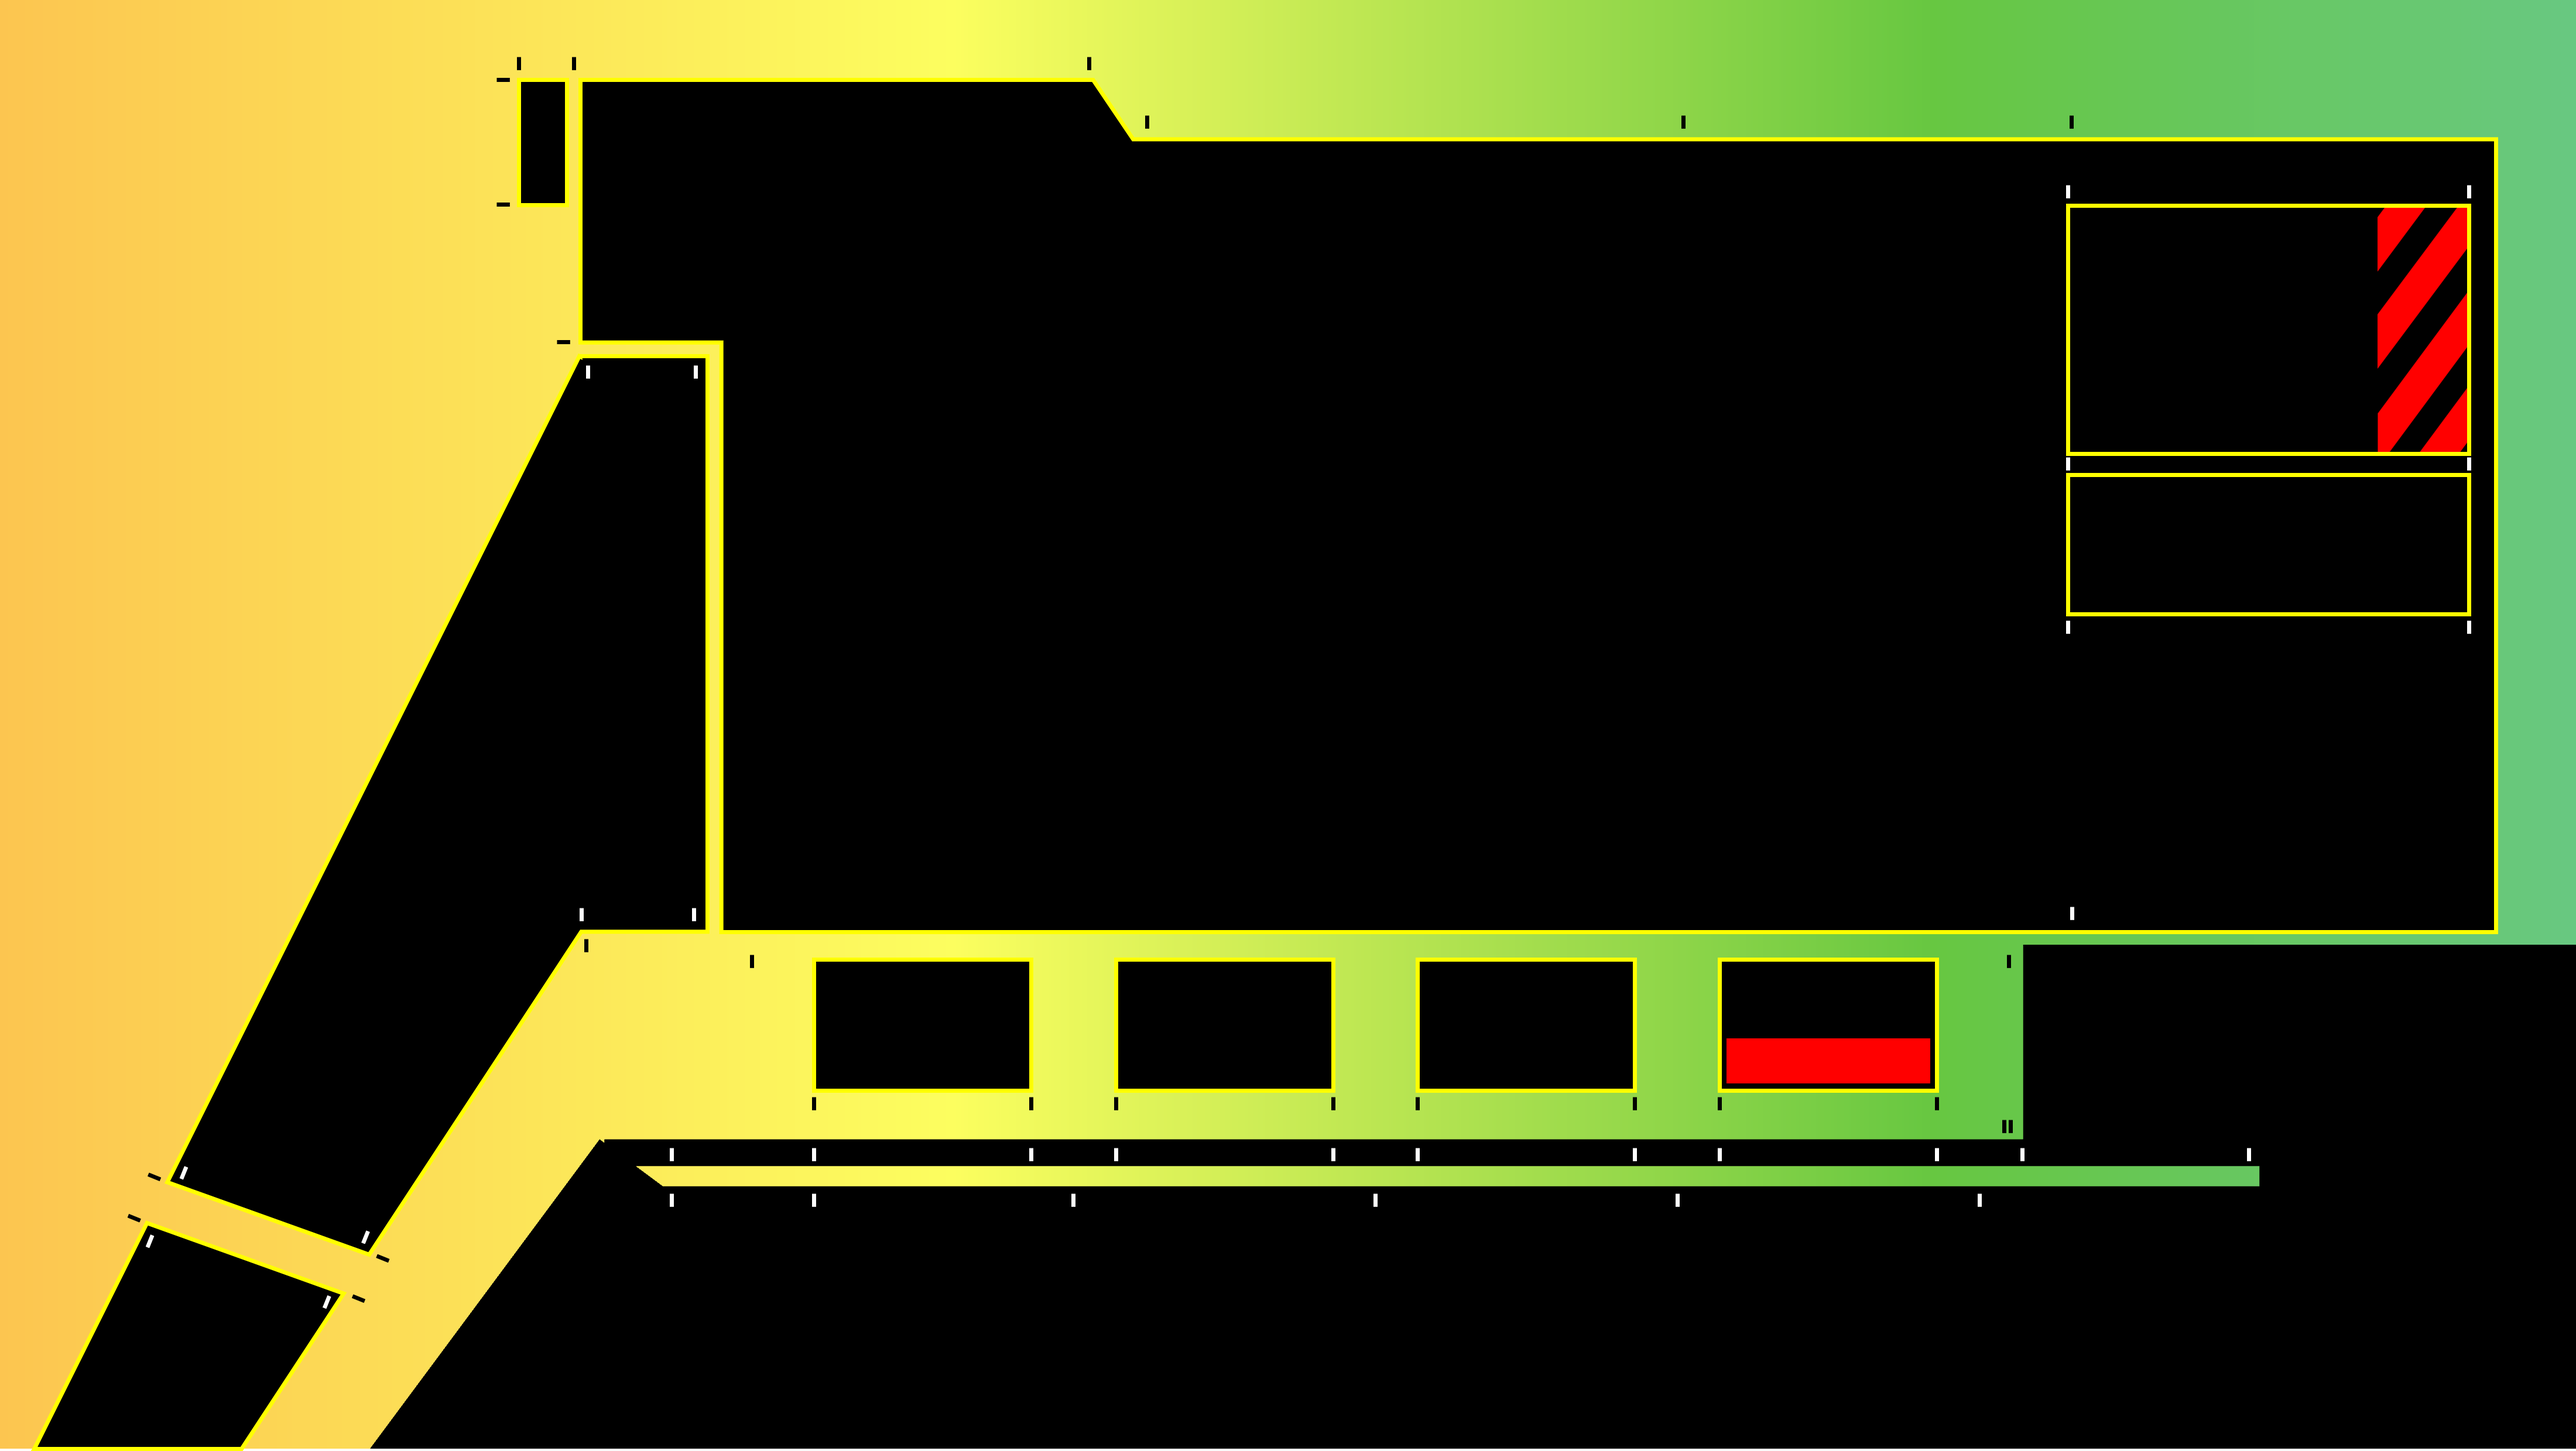
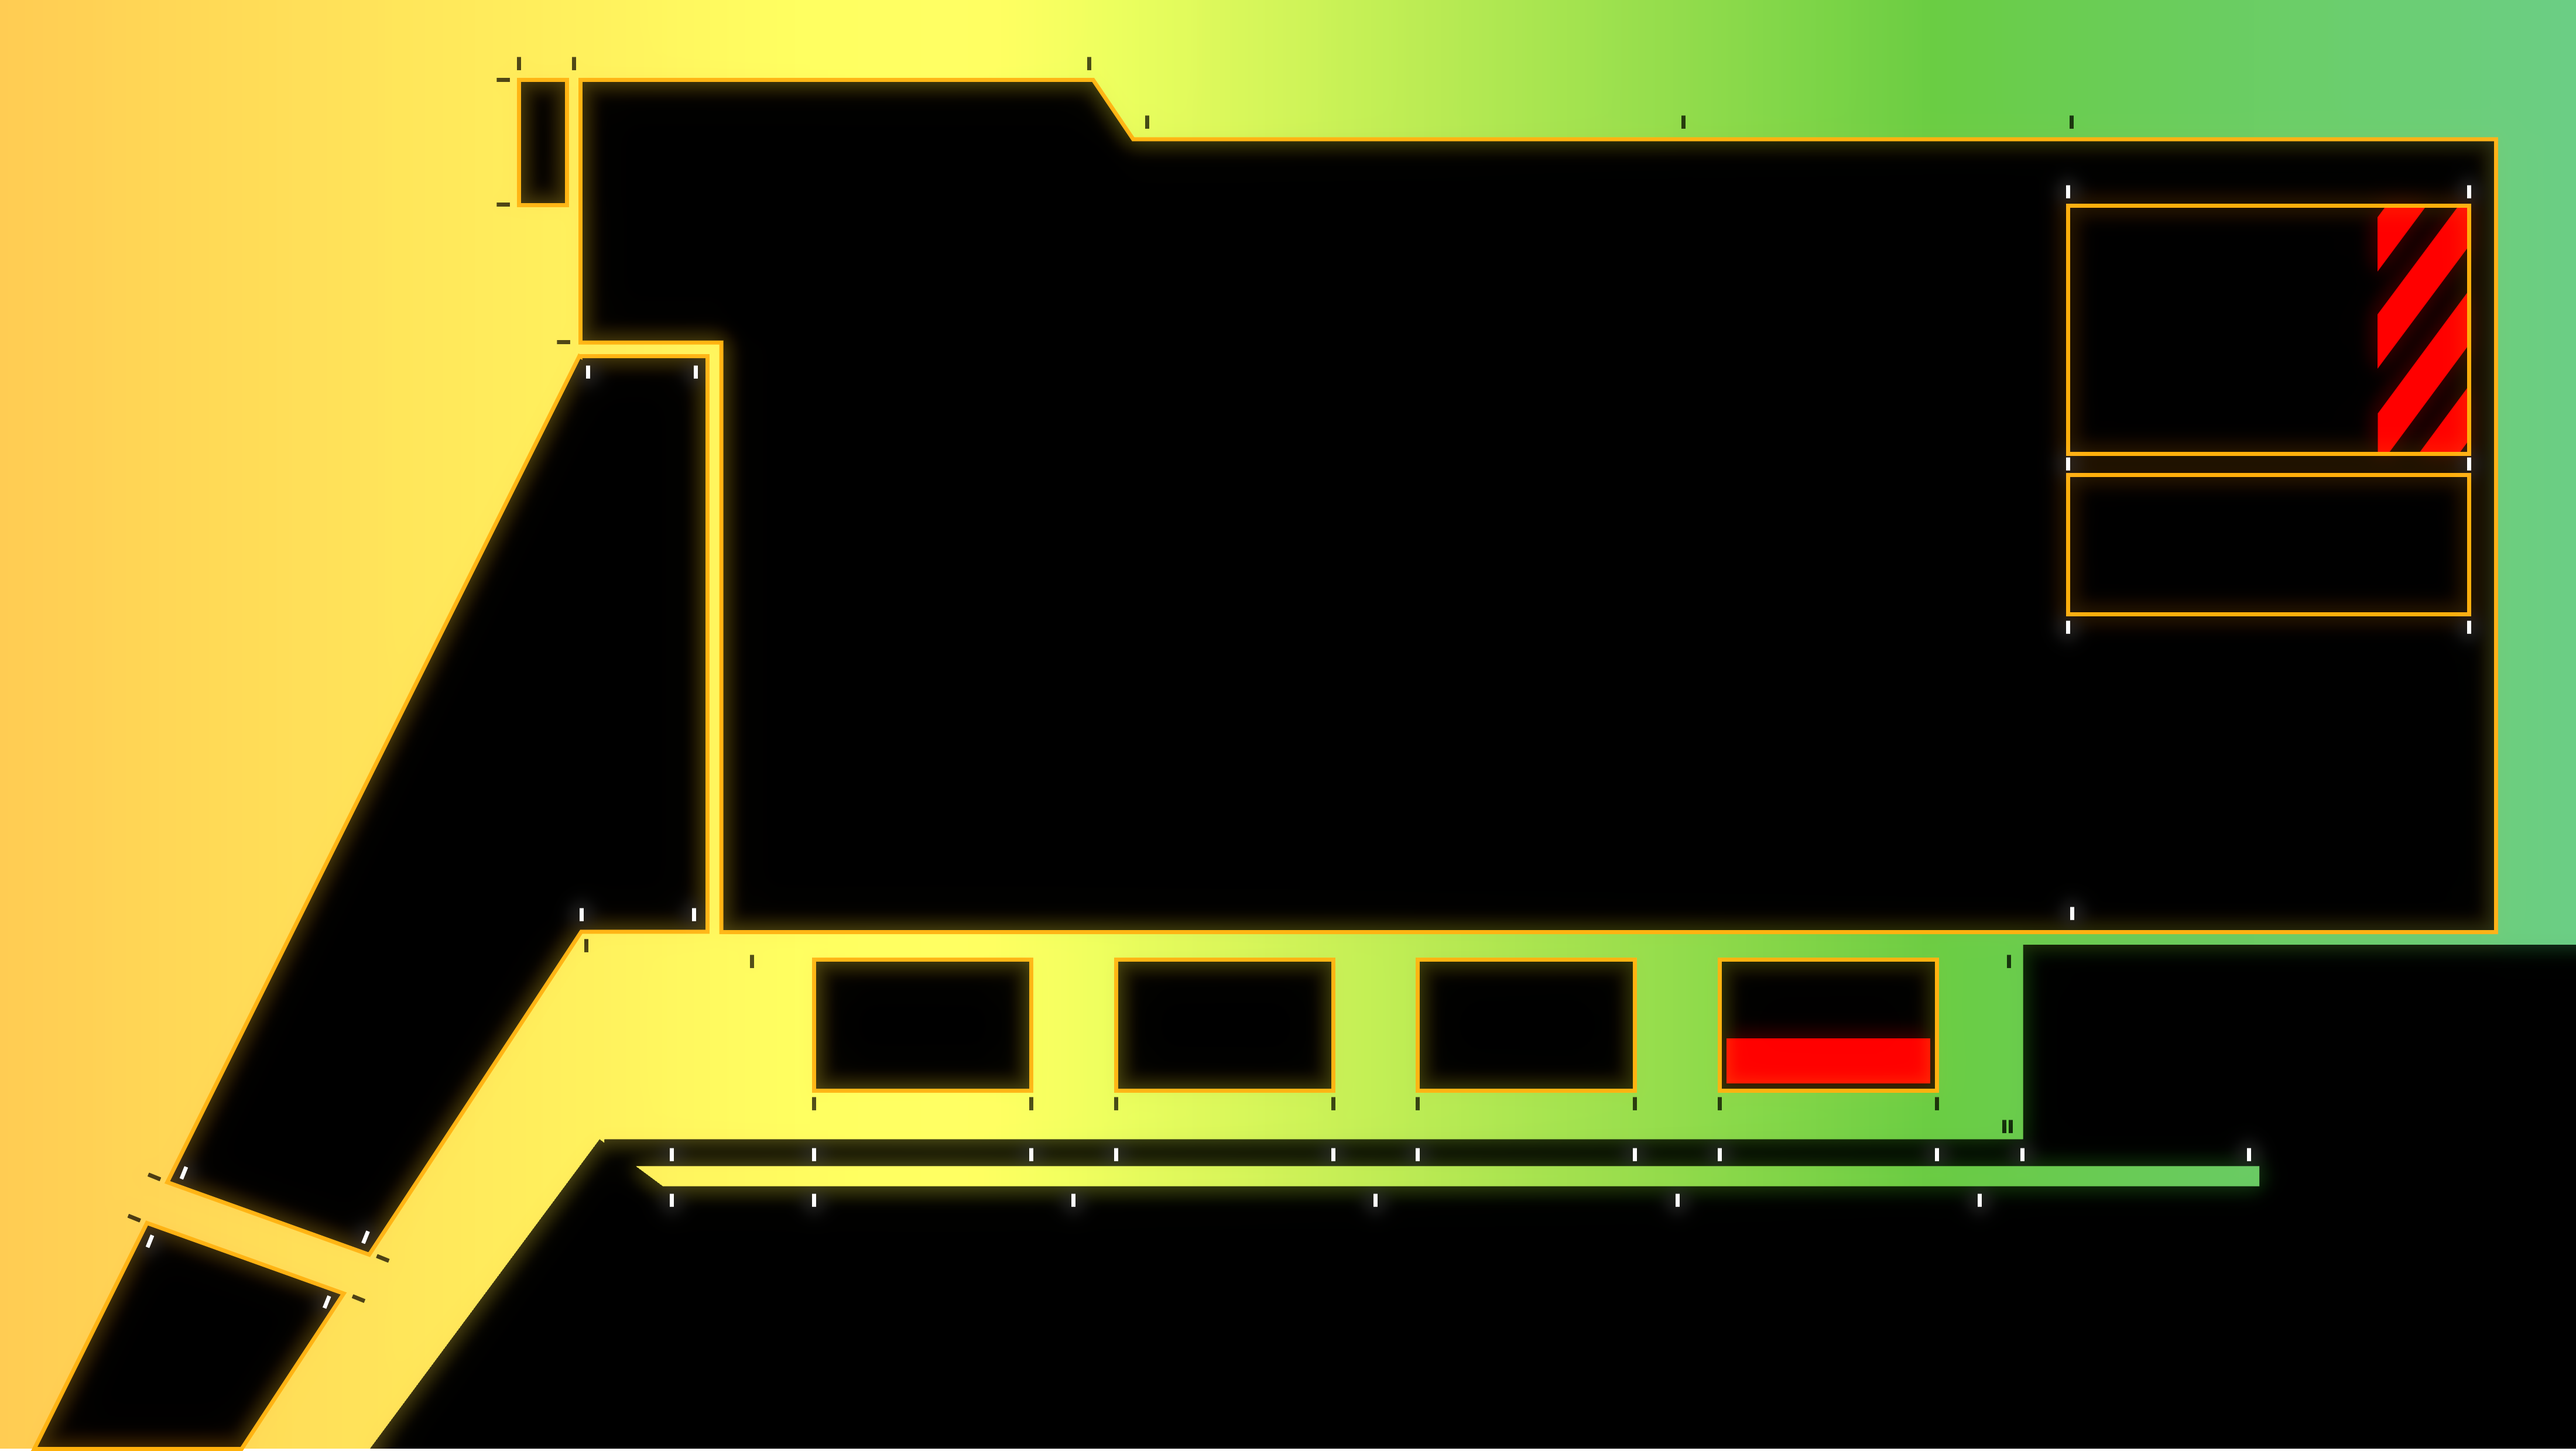
color fix

diff --git a/eva.css b/eva.css
@@ -1,7 +1,8 @@
 body {
     background-image: url("eva.png");
     background-size: cover;
-    color: yellow;
+    color: #ffd80b;
+    text-shadow: 0 0 10px #f73900;
     font-family: "NotoSansJP-Medium";
 }
 
